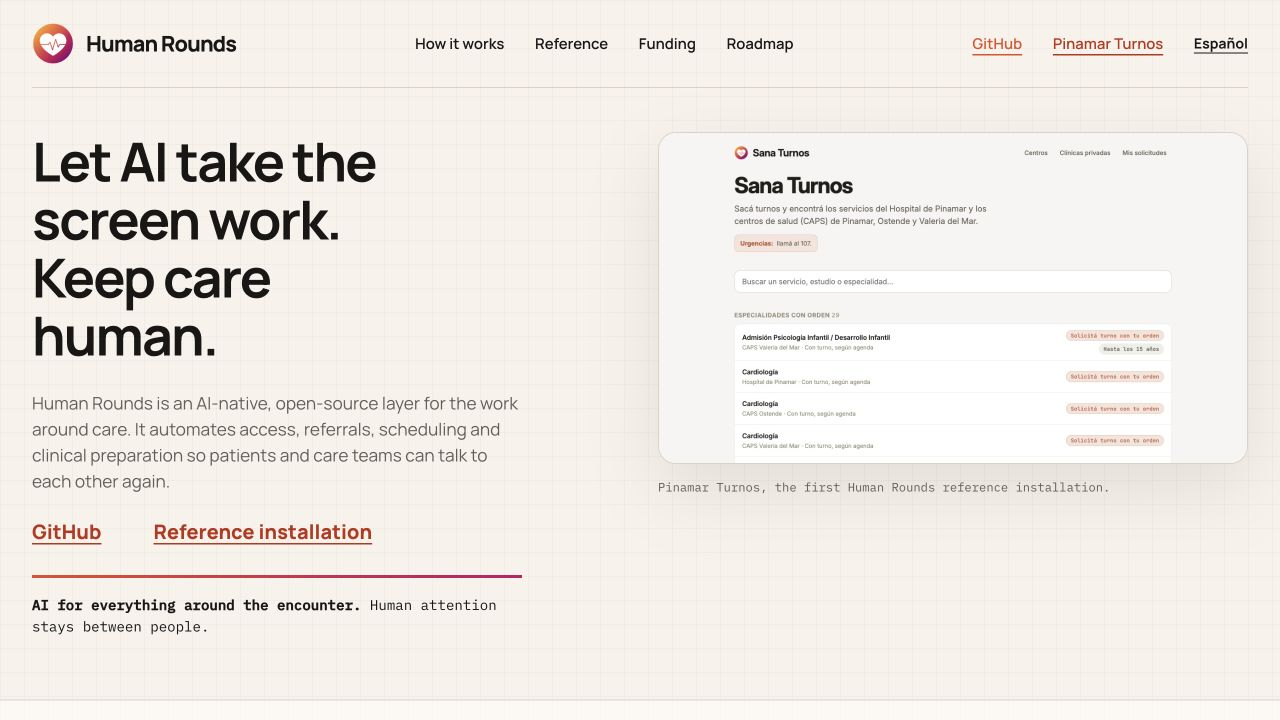
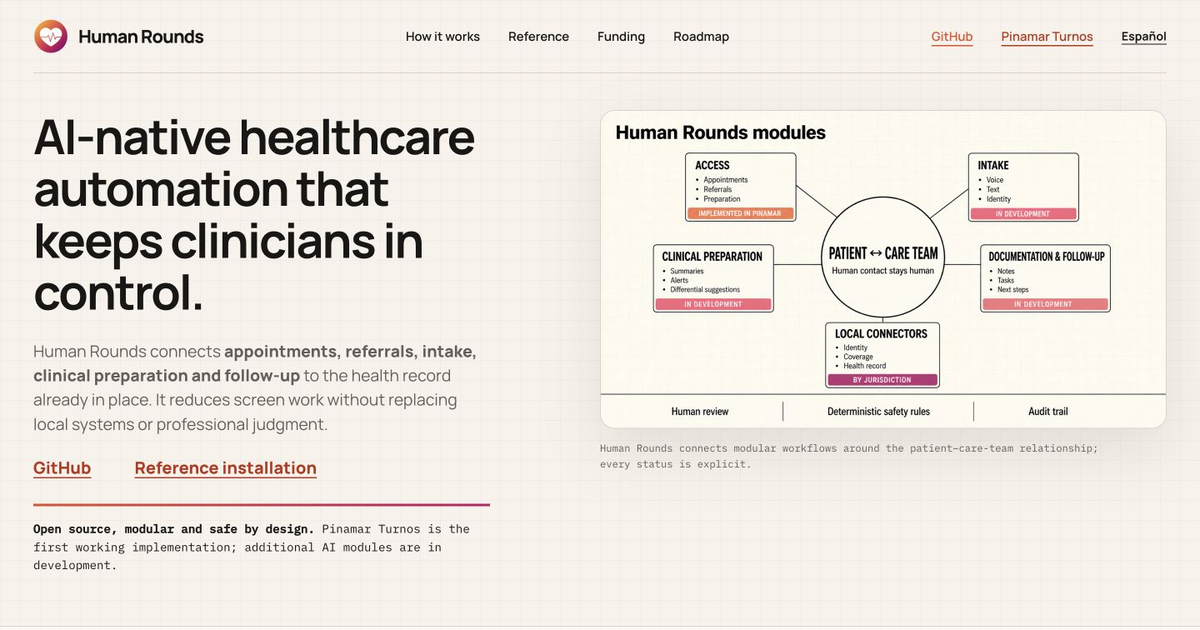
Clarify Human Rounds positioning and map modules

diff --git a/website/index.html b/website/index.html
@@ -3,20 +3,20 @@
 <head>
   <meta charset="utf-8">
   <meta name="viewport" content="width=device-width, initial-scale=1">
-  <title>Human Rounds — AI-native infrastructure for human care</title>
-  <meta name="description" content="Human Rounds is an AI-native, open-source healthcare operations layer that gives patients and care teams more time together.">
+  <title>Human Rounds — AI-native healthcare automation</title>
+  <meta name="description" content="Human Rounds connects appointments, referrals, intake, clinical preparation and follow-up to the health record already in place.">
   <meta name="theme-color" content="#f7f3eb">
   <meta property="og:type" content="website">
-  <meta property="og:title" content="Human Rounds — AI-native infrastructure for human care">
-  <meta property="og:description" content="Let AI take the screen work. Keep care human.">
-  <meta property="og:url" content="https://sana.brieflysites.com/">
-  <meta property="og:image" content="https://sana.brieflysites.com/web/human-rounds-public-preview.png?v=2">
+  <meta property="og:title" content="AI-native healthcare automation that keeps clinicians in control">
+  <meta property="og:description" content="Automate the work around care without replacing local systems or professional judgment.">
+  <meta property="og:url" content="https://humanrounds.org/">
+  <meta property="og:image" content="https://humanrounds.org/web/human-rounds-public-preview.png?v=3">
   <meta name="twitter:card" content="summary_large_image">
-  <link rel="canonical" href="https://sana.brieflysites.com/">
+  <link rel="canonical" href="https://humanrounds.org/">
   <link rel="preconnect" href="https://fonts.googleapis.com">
   <link rel="preconnect" href="https://fonts.gstatic.com" crossorigin>
   <link href="https://fonts.googleapis.com/css2?family=IBM+Plex+Mono:wght@400;500&family=Manrope:wght@400;500;600;700;800&display=swap" rel="stylesheet">
-  <link rel="stylesheet" href="/web/landing.css?v=2">
+  <link rel="stylesheet" href="/web/landing.css?v=3">
   <link rel="stylesheet" href="/web/public-footer.css?v=2">
   <script type="application/ld+json">
   {
@@ -26,7 +26,7 @@
     "applicationCategory": "HealthApplication",
     "operatingSystem": "Web",
     "description": "AI-native, open-source healthcare operations infrastructure.",
-    "url": "https://sana.brieflysites.com/",
+    "url": "https://humanrounds.org/",
     "codeRepository": "https://github.com/visualpharm/human-rounds",
     "isAccessibleForFree": true
   }
@@ -46,7 +46,7 @@
     </nav>
     <nav class="site-actions" aria-label="Project destinations">
       <a class="github-link" href="https://github.com/visualpharm/human-rounds" rel="noopener" data-i18n="navGithub">GitHub</a>
-      <a href="/demo" data-i18n="navDemo">Pinamar Turnos</a>
+      <a href="https://demo.humanrounds.org/" data-i18n="navDemo">Pinamar Turnos</a>
       <button class="language-toggle" type="button" data-language-toggle>Español</button>
     </nav>
   </header>
@@ -54,18 +54,19 @@
   <main>
     <section class="hero public-wrap">
       <div class="hero-copy">
-        <h1 data-i18n="heroTitle">Let AI take the screen work. Keep care human.</h1>
-        <p class="hero-lead" data-i18n="heroLead">Human Rounds is an AI-native, open-source layer for the work around care. It automates access, referrals, scheduling and clinical preparation so patients and care teams can talk to each other again.</p>
+        <h1 data-i18n="heroTitle">AI-native healthcare automation that keeps clinicians in control.</h1>
+        <p class="hero-lead" data-i18n="heroLead" data-i18n-html>Human Rounds connects <strong>appointments, referrals, intake, clinical preparation and follow-up</strong> to the health record already in place. It reduces screen work without replacing local systems or professional judgment.</p>
         <div class="hero-links">
           <a href="https://github.com/visualpharm/human-rounds" rel="noopener" data-i18n="navGithub">GitHub</a>
-          <a href="/demo" data-i18n="referenceLink">Reference installation</a>
+          <a href="https://demo.humanrounds.org/" data-i18n="referenceLink">Reference installation</a>
         </div>
-        <p class="hero-proof" data-i18n="heroProof" data-i18n-html><strong>AI for everything around the encounter.</strong> Human attention stays between people.</p>
+        <p class="hero-proof" data-i18n="heroProof" data-i18n-html><strong>Open source, modular and safe by design.</strong> Pinamar Turnos is the first working implementation; additional AI modules are in development.</p>
       </div>
 
       <figure class="product-proof">
-        <img src="/web/pinamar-turnos-reference.jpeg?v=2" data-i18n-alt="screenshotAlt" alt="Pinamar Turnos public-health appointment and services interface" width="1280" height="720">
-        <figcaption data-i18n="screenshotCaption">Pinamar Turnos, the first Human Rounds reference installation.</figcaption>
+        <img class="modules-diagram modules-diagram--en" src="/web/human-rounds-modules-en.webp?v=3" alt="Human Rounds modules organised around the relationship between patient and care team" width="1672" height="941">
+        <img class="modules-diagram modules-diagram--es" src="/web/human-rounds-modules-es.webp?v=3" alt="Módulos de Human Rounds organizados alrededor del vínculo entre el paciente y el equipo de salud" width="1672" height="941">
+        <figcaption data-i18n="modulesCaption">Human Rounds connects modular workflows around the patient–care-team relationship; every status is explicit.</figcaption>
       </figure>
     </section>
 
@@ -118,7 +119,7 @@
             <li data-i18n="working5" data-i18n-html><strong>Institutional administration</strong> for services, centres, schedules and requests.</li>
             <li data-i18n="working6" data-i18n-html><strong>Health-record handoff</strong> through the authorised local connector.</li>
           </ul>
-          <p><a href="/demo" data-i18n="referenceLink">Reference installation</a></p>
+          <p><a href="https://demo.humanrounds.org/" data-i18n="referenceLink">Reference installation</a></p>
         </article>
         <article>
           <span class="status-tag status-development" data-i18n="developmentTitle">Entering Human Rounds</span>
@@ -272,7 +273,7 @@
         </div>
         <nav aria-label="Collaboration links">
           <a href="https://github.com/visualpharm/human-rounds" rel="noopener" data-i18n="partnerGithub">GitHub repository</a>
-          <a href="/demo" data-i18n="partnerDemo">Pinamar Turnos reference</a>
+          <a href="https://demo.humanrounds.org/" data-i18n="partnerDemo">Pinamar Turnos reference</a>
           <a href="#funding" data-i18n="partnerBrief">Funding roadmap</a>
         </nav>
       </div>
@@ -281,6 +282,6 @@
 
   <footer data-public-footer data-lang="en"></footer>
   <script src="/web/public-footer.js?v=2"></script>
-  <script src="/web/landing.js?v=2"></script>
+  <script src="/web/landing.js?v=3"></script>
 </body>
 </html>

diff --git a/website/web/landing.js b/website/web/landing.js
@@ -10,11 +10,10 @@
       navDemo: 'Pinamar Turnos',
       referenceLink: 'Reference installation',
       language: 'Español',
-      heroTitle: 'Let AI take the screen work. Keep care human.',
-      heroLead: 'Human Rounds is an AI-native, open-source layer for the work around care. It automates access, referrals, scheduling and clinical preparation so patients and care teams can talk to each other again.',
-      heroProof: '<strong>AI for everything around the encounter.</strong> Human attention stays between people.',
-      screenshotAlt: 'Pinamar Turnos public-health appointment and services interface',
-      screenshotCaption: 'Pinamar Turnos, the first Human Rounds reference installation.',
+      heroTitle: 'AI-native healthcare automation that keeps clinicians in control.',
+      heroLead: 'Human Rounds connects <strong>appointments, referrals, intake, clinical preparation and follow-up</strong> to the health record already in place. It reduces screen work without replacing local systems or professional judgment.',
+      heroProof: '<strong>Open source, modular and safe by design.</strong> Pinamar Turnos is the first working implementation; additional AI modules are in development.',
+      modulesCaption: 'Human Rounds connects modular workflows around the patient–care-team relationship; every status is explicit.',
       flowTitle: 'The encounter is the point.',
       flowIntro: 'Human Rounds was rebuilt with artificial intelligence in mind from the start. AI handles the repetitive work before, during and after care while the existing clinical record remains authoritative.',
       flowPatientTitle: 'Listen',
@@ -87,11 +86,10 @@
       navDemo: 'Pinamar Turnos',
       referenceLink: 'Instalación de referencia',
       language: 'English',
-      heroTitle: 'Que la IA se ocupe del sistema. Que la atención vuelva a ser humana.',
-      heroLead: 'Human Rounds nace desde Pinamar Turnos para automatizar el registro, los turnos, las derivaciones, la documentación y la preparación clínica. Menos conversación con la pantalla. Más conversación entre el paciente y el equipo de salud.',
-      heroProof: '<strong>IA nativa para todo lo que rodea la consulta.</strong> El vínculo humano no se automatiza.',
-      screenshotAlt: 'Pinamar Turnos, interfaz para turnos y servicios del sistema público de salud',
-      screenshotCaption: 'Pinamar Turnos, primera instalación de referencia de Human Rounds.',
+      heroTitle: 'IA nativa para turnos y derivaciones, integrada a la HSI y con el equipo de salud al mando.',
+      heroLead: 'Human Rounds conecta <strong>turnos, derivaciones, admisión, preparación clínica y seguimiento</strong> con la HSI y los sistemas existentes. Reduce tareas de pantalla sin reemplazar la decisión profesional.',
+      heroProof: '<strong>Código abierto, modular y diseñado para revisión profesional.</strong> Pinamar Turnos es la primera implementación funcional; los nuevos módulos de IA están en desarrollo.',
+      modulesCaption: 'Human Rounds conecta módulos alrededor del vínculo entre paciente y equipo de salud; el estado de cada uno es explícito.',
       flowTitle: 'La consulta es entre personas.',
       flowIntro: 'Human Rounds fue replanteado desde cero con inteligencia artificial. La IA ordena el trabajo antes, durante y después de la atención; la HSI conserva la historia clínica oficial y el profesional conserva la decisión.',
       flowPatientTitle: 'Escuchar',

diff --git a/website/web/landing.css b/website/web/landing.css
@@ -39,7 +39,7 @@ a:hover { color: var(--magenta); }
 button { font: inherit; }
 h1, h2, h3, p { margin-top: 0; }
 h1, h2, h3 { line-height: 1.08; letter-spacing: -.035em; }
-h1 { font-size: clamp(3.1rem, 4.2vw, 4.4rem); max-width: 12ch; margin-bottom: 26px; }
+h1 { font-size: clamp(3rem, 4vw, 4.2rem); max-width: 15ch; margin-bottom: 26px; }
 h2 { font-size: clamp(2.15rem, 4vw, 4rem); max-width: 18ch; margin-bottom: 22px; }
 h3 { font-size: 1.15rem; margin-bottom: 8px; }
 strong { font-weight: 750; }
@@ -115,7 +115,7 @@ strong { font-weight: 750; }
   min-height: 460px;
   padding-block: 44px 48px;
   display: grid;
-  grid-template-columns: minmax(0, .87fr) minmax(520px, 1.13fr);
+  grid-template-columns: minmax(0, .87fr) minmax(560px, 1.13fr);
   align-items: start;
   gap: clamp(42px, 7vw, 108px);
 }
@@ -148,7 +148,7 @@ strong { font-weight: 750; }
 }
 .product-proof {
   width: 100%;
-  max-width: 590px;
+  max-width: 680px;
   min-width: 0;
   margin: 0;
   justify-self: end;
@@ -163,6 +163,9 @@ strong { font-weight: 750; }
   background: var(--surface);
   box-shadow: 0 26px 70px rgba(39, 32, 22, .10);
 }
+.product-proof .modules-diagram--es { display: none; }
+body[data-language="es"] .product-proof .modules-diagram--en { display: none; }
+body[data-language="es"] .product-proof .modules-diagram--es { display: block; }
 .product-proof figcaption {
   max-width: 620px;
   margin: 14px 0 0;
@@ -428,7 +431,7 @@ body[data-language="es"] [data-language-only="es"] { display: block; }
     padding-block: 50px 56px;
     gap: 42px;
   }
-  h1 { font-size: clamp(3rem, 15vw, 4.6rem); }
+  h1 { font-size: clamp(2.45rem, 11vw, 3.4rem); }
   h2 { font-size: clamp(2rem, 10vw, 3rem); }
   .hero-links { margin-bottom: 34px; }
   .system-section .public-wrap,
